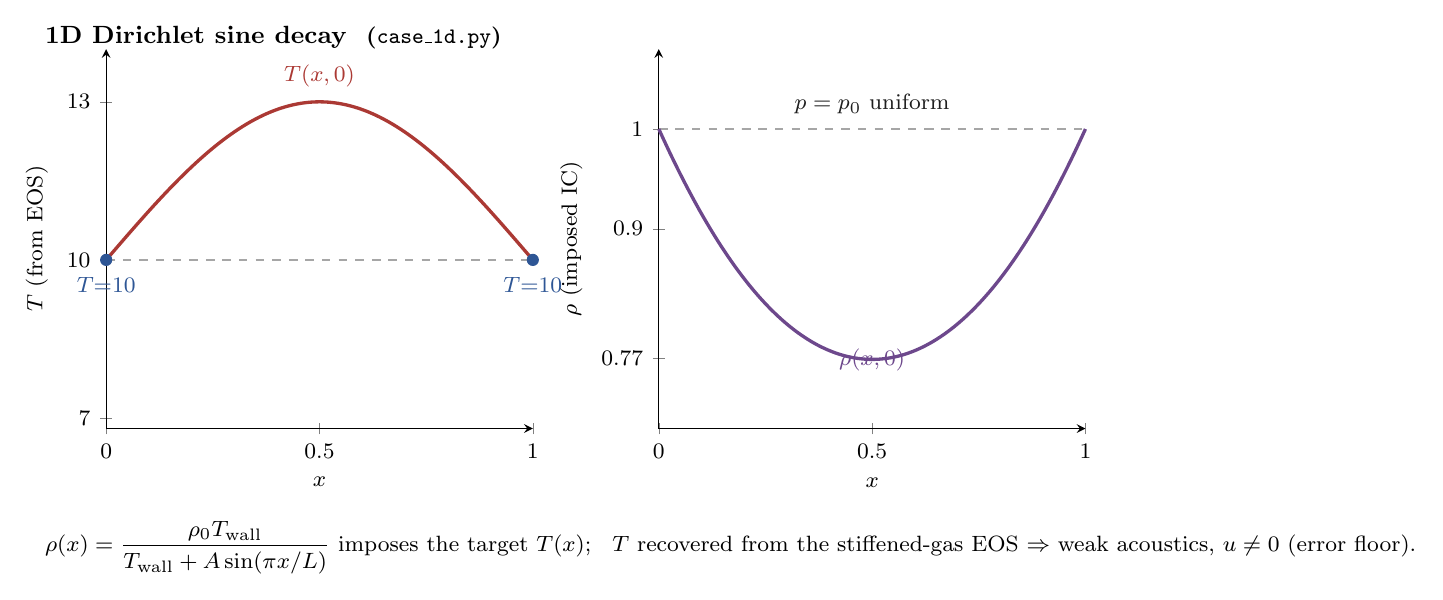
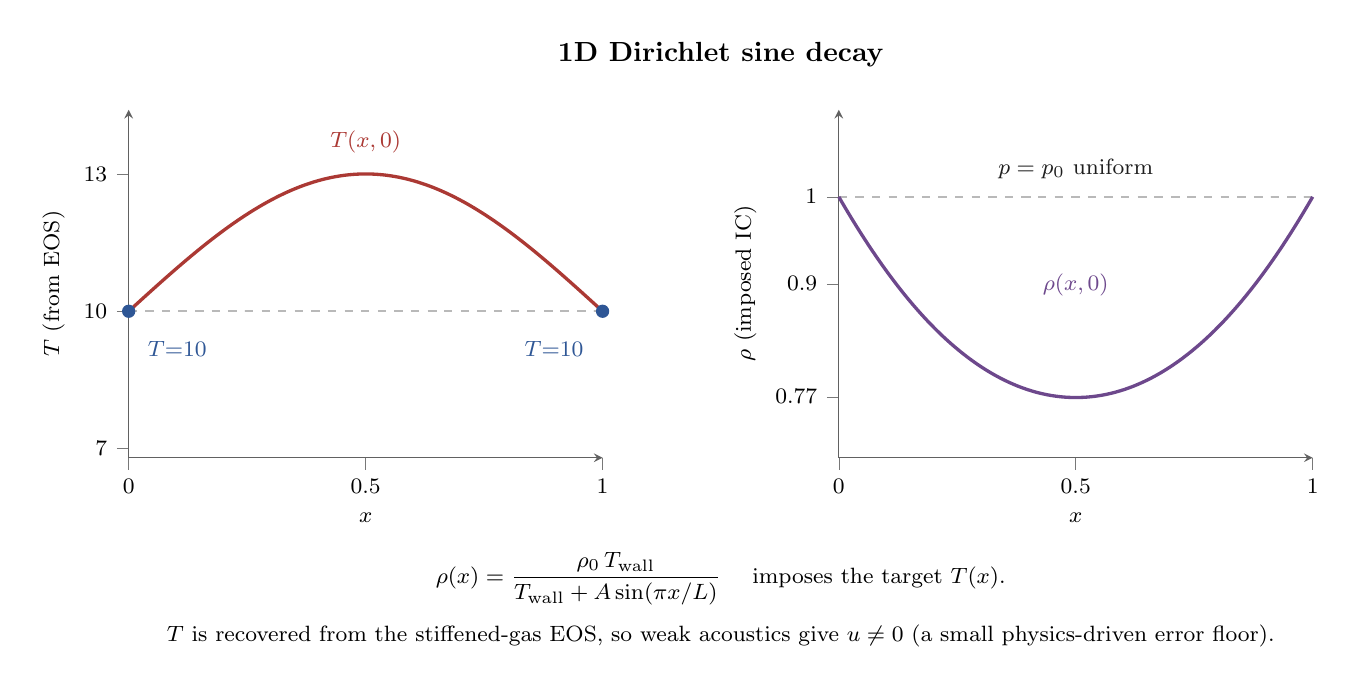
1D_thermal_conduction: redo setup diagram (spacing, centered title/caption, fix stale case_1d.py label)

diff --git a/examples/1D_thermal_conduction/diagrams/setup_1d.tex b/examples/1D_thermal_conduction/diagrams/setup_1d.tex
@@ -1,16 +1,16 @@
-% 1D Dirichlet sine decay -- case_1d.py (energy-coupled, EOS temperature).
+% 1D Dirichlet sine decay -- case.py (energy-coupled, EOS temperature).
 % The sine profile is imposed through the DENSITY at uniform pressure,
 %   rho(x) = rho0 Twall / (Twall + A sin(pi x/L)),   p = p0 = const.
 % T is then recovered from the stiffened-gas EOS; weak compressible acoustics
 % make u != 0 and set a small physics-driven error floor.
 %
-% Compile:  pdflatex setup_1d_energy.tex
-\documentclass[border=6pt]{standalone}
+% Compile:  pdflatex setup_1d.tex
+\documentclass[border=12pt]{standalone}
 \usepackage{amsmath}
 \usepackage{tikz}
 \usepackage{pgfplots}
 \pgfplotsset{compat=1.18}
-\usetikzlibrary{arrows.meta}
+\usetikzlibrary{arrows.meta, calc}
 
 \definecolor{coldc}{RGB}{46,86,149}
 \definecolor{hotc}{RGB}{171,57,52}
@@ -19,41 +19,48 @@
 
 \begin{document}
 \begin{tikzpicture}[>=Stealth, font=\footnotesize]
+\pgfplotsset{
+  panel/.style={
+    width=7.6cm, height=6.0cm, axis lines=left, samples=160,
+    xmin=0, xmax=1, xtick={0,0.5,1}, enlargelimits=false, clip=false,
+    xlabel={$x$}, every axis x label/.style={at={(ticklabel cs:0.5)}, anchor=north},
+    tick align=outside, tick style={inkc!60}, axis line style={inkc!70},
+  },
+}
+
 % LEFT panel: recovered temperature T(x)
-\begin{axis}[
-  name=tax, width=7.0cm, height=6.4cm,
-  xlabel={$x$}, ylabel={$T$ (from EOS)},
-  xmin=0, xmax=1, ymin=6.8, ymax=14, axis lines=left, samples=160,
-  xtick={0,0.5,1}, ytick={7,10,13}, enlargelimits=false, clip=false,
+\begin{axis}[panel, name=tax,
+  ylabel={$T$ (from EOS)}, ymin=6.8, ymax=14.4, ytick={7,10,13},
 ]
-  \addplot[gray!70, dashed, thick, domain=0:1] {10};
+  \addplot[gray!55, dashed, thick, domain=0:1] {10};
   \addplot[hotc, very thick, domain=0:1] {10 + 3*sin(deg(pi*x))};
-  \node[hotc, anchor=south] at (axis cs:0.5,13.1) {$T(x,0)$};
-  \fill[coldc] (axis cs:0,10) circle (2.2pt);
-  \fill[coldc] (axis cs:1,10) circle (2.2pt);
-  \node[coldc, anchor=north, align=center] at (axis cs:0,9.85) {$T{=}10$};
-  \node[coldc, anchor=north, align=center] at (axis cs:1,9.85) {$T{=}10$};
+  \node[hotc, anchor=south] at (axis cs:0.5,13.25) {$T(x,0)$};
+  \fill[coldc] (axis cs:0,10) circle (2.4pt);
+  \fill[coldc] (axis cs:1,10) circle (2.4pt);
+  \node[coldc, anchor=north west] at (axis cs:0.02,9.55) {$T{=}10$};
+  \node[coldc, anchor=north east] at (axis cs:0.98,9.55) {$T{=}10$};
 \end{axis}
 
 % RIGHT panel: imposed density rho(x) (inverse of T at uniform pressure)
-\begin{axis}[
-  name=rax, at={(tax.east)}, anchor=west, xshift=1.6cm,
-  width=7.0cm, height=6.4cm,
-  xlabel={$x$}, ylabel={$\rho$ (imposed IC)},
-  xmin=0, xmax=1, ymin=0.7, ymax=1.08, axis lines=left, samples=160,
-  xtick={0,0.5,1}, ytick={0.77,0.9,1.0}, enlargelimits=false, clip=false,
+\begin{axis}[panel, name=rax, at={(tax.east)}, anchor=west, xshift=3.0cm,
+  ylabel={$\rho$ (imposed IC)}, ymin=0.70, ymax=1.10, ytick={0.77,0.9,1.0},
 ]
-  \addplot[gray!70, dashed, thick, domain=0:1] {1.0};
-  % rho0 = 1, Twall = 10, A = 3  ->  10/(10 + 3 sin)
+  \addplot[gray!55, dashed, thick, domain=0:1] {1.0};
   \addplot[rhoc, very thick, domain=0:1] {10/(10 + 3*sin(deg(pi*x)))};
-  \node[rhoc, anchor=north] at (axis cs:0.5,0.79) {$\rho(x,0)$};
-  \node[inkc, anchor=south] at (axis cs:0.5,1.005) {$p=p_0$ uniform};
+  \node[rhoc, anchor=south] at (axis cs:0.5,0.875) {$\rho(x,0)$};
+  \node[inkc, anchor=south] at (axis cs:0.5,1.01) {$p=p_0$ uniform};
 \end{axis}
 
-\node[font=\bfseries\small, anchor=south west] at (-0.9,4.7)
-  {1D Dirichlet sine decay \ \footnotesize(\texttt{case\_1d.py})};
-\node[anchor=north west, align=left, font=\footnotesize] at (-0.9,-1.05)
-  {$\rho(x)=\dfrac{\rho_0 T_{\text{wall}}}{T_{\text{wall}}+A\sin(\pi x/L)}$ imposes the target $T(x)$;\;\;
-   $T$ recovered from the stiffened-gas EOS $\Rightarrow$ weak acoustics, $u\neq 0$ (error floor).};
+% Centered title above both panels
+\node[font=\bfseries] at ($(tax.north)!0.5!(rax.north) + (0,0.7cm)$)
+  {1D Dirichlet sine decay};
+
+% Centered caption below both panels
+\node[anchor=north, align=center, inner sep=0pt]
+  at ($(tax.south)!0.5!(rax.south) - (0,1.2cm)$)
+  {$\displaystyle \rho(x)=\frac{\rho_0\,T_{\text{wall}}}{T_{\text{wall}}+A\sin(\pi x/L)}$
+   \quad imposes the target $T(x)$. \\[6pt]
+   $T$ is recovered from the stiffened-gas EOS, so weak acoustics give $u\neq 0$
+   (a small physics-driven error floor).};
 \end{tikzpicture}
 \end{document}
